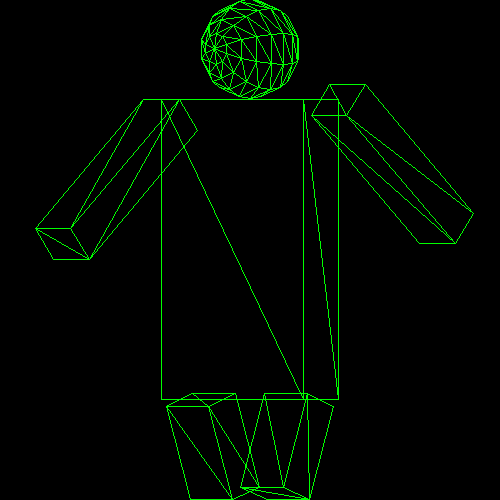
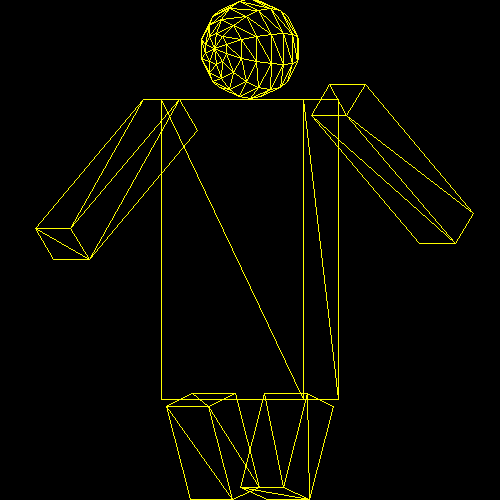
Test

diff --git a/06-cstack/parser.c b/06-cstack/parser.c
@@ -85,7 +85,7 @@ void parse_file ( char * filename,
   struct stack * stack = new_stack();
   int num_steps;
   
-  g.red = 0;
+  g.red = 255;
   g.green = 255;
   g.blue = 0;
   
